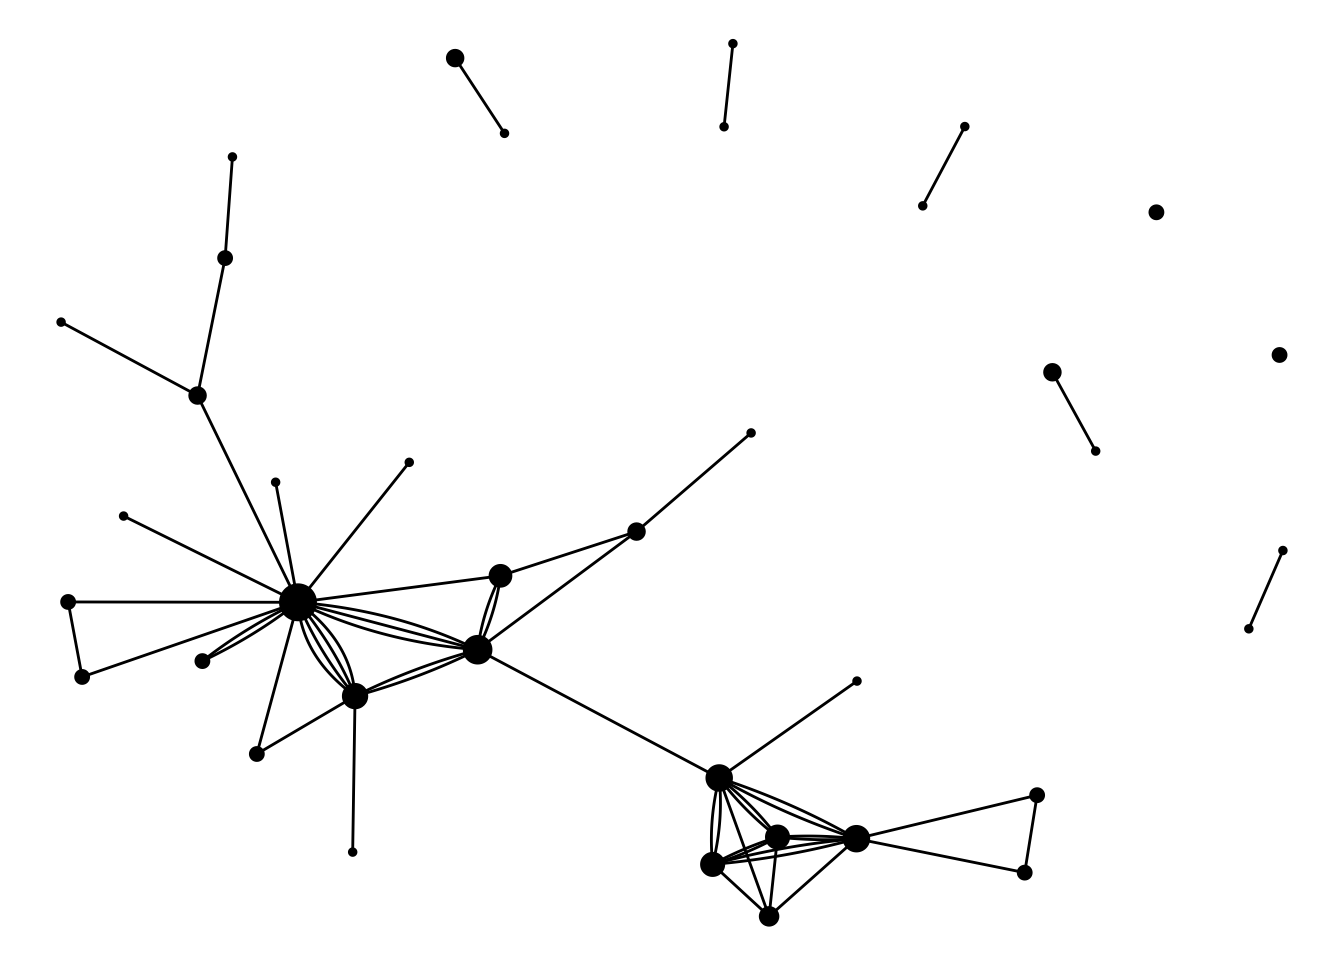
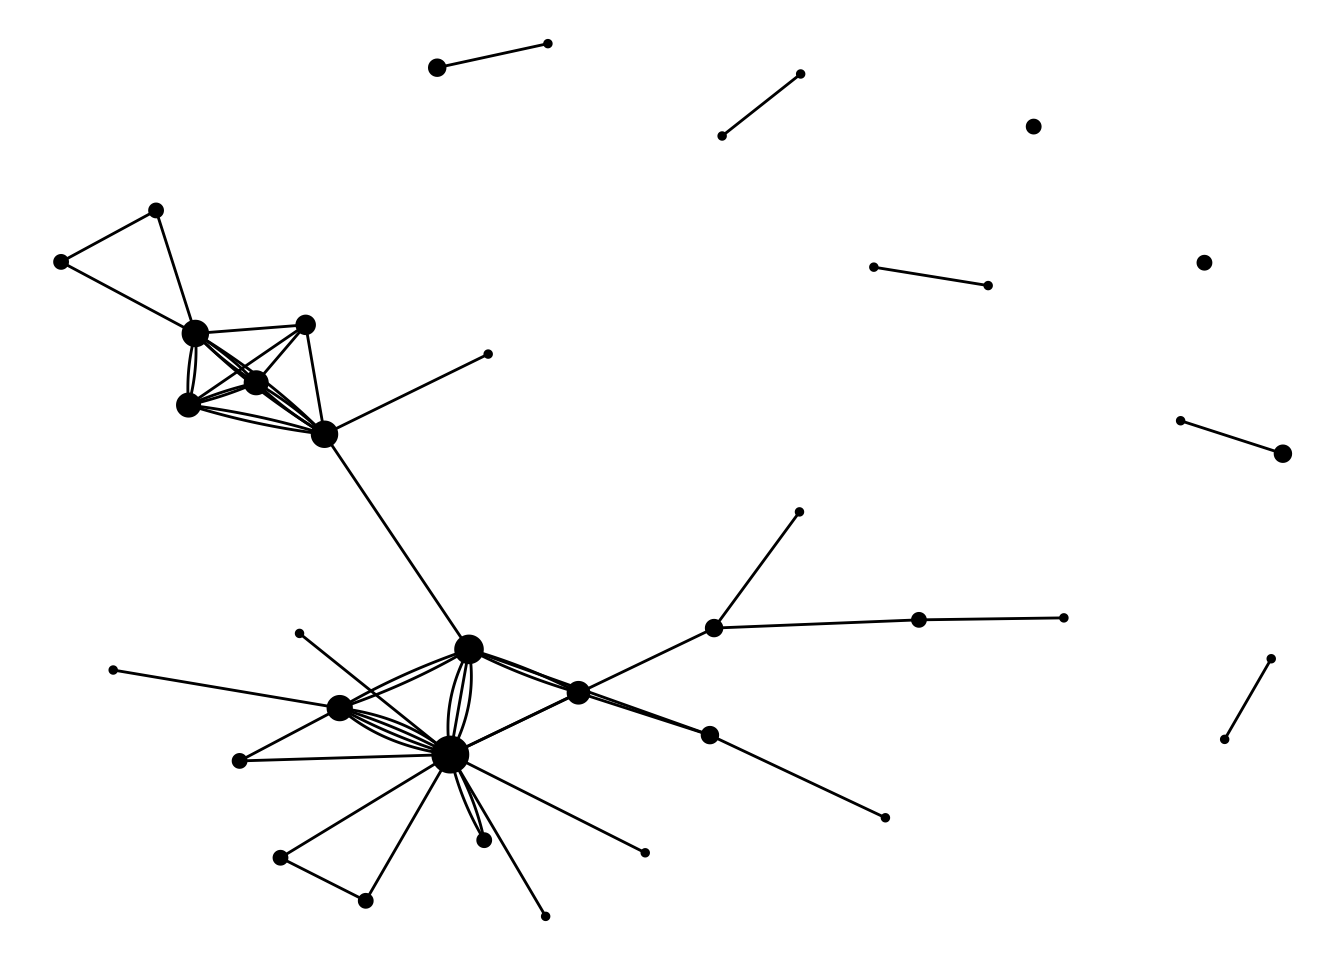
Amend categories actually

diff --git a/content/post/2019-02-14-relayverse.html b/content/post/2019-02-14-relayverse.html
@@ -3,8 +3,8 @@ title: Graphing the Relayverse of podcasts
 author: Matt Dray
 date: '2019-02-14'
 categories:
-  - dataviz
-  - pop culture
+  - code
+  - tutorial
 tags:
   - cowplot
   - ggraph
@@ -12,6 +12,7 @@ tags:
   - networks
   - podcasts
   - purrr
+  - r
   - rvest
   - tidygraph
   - tidyverse
@@ -36,7 +37,7 @@ The Relay FM podcast network, visualised. <a href="https://www.rostrum.blog/outp
 <div id="tldr" class="section level1">
 <h1>tl;dr</h1>
 <p>I made an interactive <a href="https://en.wikipedia.org/wiki/Network_theory">graph network</a> of the podcast host relationships on <a href="https://www.relay.fm">Relay FM</a> using R. <a href="https://www.rostrum.blog/output/relayverse.html">You can interact with it in a separate window</a> and find out below how it was made.</p>
-<p>I refreshed the data and style of the visualisation on 10 Sep 2019.</p>
+<p>I refreshed the data and style of the visualisation on 11 Sep 2019.</p>
 </div>
 <div id="podcast-networks" class="section level1">
 <h1>Podcast networks</h1>
@@ -106,24 +107,24 @@ select(shows, Podcast, Hosts) %&gt;%
 </thead>
 <tbody>
 <tr class="odd">
-<td align="left">Fusion</td>
-<td align="left">Stephen M. Hackett</td>
+<td align="left">The Pen Addict</td>
+<td align="left">Myke HurleyBrad Dowdy</td>
 </tr>
 <tr class="even">
-<td align="left">Disruption</td>
-<td align="left">Georgia DowBrianna WuSteve LubitzMikah Sargent</td>
+<td align="left">Mac Power Users</td>
+<td align="left">David SparksStephen M. Hackett[6]formerly hosted byKatie Floyd</td>
 </tr>
 <tr class="odd">
-<td align="left">The Prompt</td>
-<td align="left">Myke HurleyFederico ViticciStephen M. Hackett</td>
+<td align="left">Playing for Fun</td>
+<td align="left">Myke HurleyTiffany Arment</td>
 </tr>
 <tr class="even">
-<td align="left">Almanac</td>
-<td align="left">Andy Ihnatko</td>
+<td align="left">Remaster</td>
+<td align="left">Federico ViticciMyke HurleyShahid Kamal Ahmad</td>
 </tr>
 <tr class="odd">
-<td align="left">Parallel</td>
-<td align="left">Shelly Brisbin</td>
+<td align="left">Roboism</td>
+<td align="left">Alex CoxSavannah Million</td>
 </tr>
 </tbody>
 </table>
@@ -152,53 +153,53 @@ sample_n(shows_clean, 10) %&gt;% knitr::kable()</code></pre>
 </thead>
 <tbody>
 <tr class="odd">
-<td align="left">Material</td>
-<td align="left">Florence Ion</td>
-<td align="left">Current</td>
+<td align="left">Less Than or Equal</td>
+<td align="left">Aleen Simms</td>
+<td align="left">Retired</td>
 </tr>
 <tr class="even">
-<td align="left">Clockwise</td>
-<td align="left">Mikah Sargent</td>
-<td align="left">Current</td>
-</tr>
-<tr class="odd">
-<td align="left">Rocket</td>
-<td align="left">Brianna Wu</td>
-<td align="left">Current</td>
-</tr>
-<tr class="even">
-<td align="left">Free Agents</td>
-<td align="left">Jason Snell</td>
-<td align="left">Current</td>
-</tr>
-<tr class="odd">
-<td align="left">Reconcilable Differences</td>
-<td align="left">Merlin Mann</td>
-<td align="left">Current</td>
-</tr>
-<tr class="even">
-<td align="left">Mac Power Users</td>
+<td align="left">Ungeniused</td>
 <td align="left">Stephen M. Hackett</td>
 <td align="left">Current</td>
 </tr>
 <tr class="odd">
+<td align="left">Mac Power Users</td>
+<td align="left">David Sparks</td>
+<td align="left">Current</td>
+</tr>
+<tr class="even">
+<td align="left">Make Do</td>
+<td align="left">Tiffany Arment</td>
+<td align="left">Current</td>
+</tr>
+<tr class="odd">
+<td align="left">Thoroughly Considered</td>
+<td align="left">Myke Hurley</td>
+<td align="left">Current</td>
+</tr>
+<tr class="even">
+<td align="left">Top Four</td>
+<td align="left">Tiffany Arment</td>
+<td align="left">Current</td>
+</tr>
+<tr class="odd">
+<td align="left">Query</td>
+<td align="left">Mikah Sargent</td>
+<td align="left">Current</td>
+</tr>
+<tr class="even">
 <td align="left">Top Four</td>
 <td align="left">Marco Arment</td>
 <td align="left">Current</td>
 </tr>
-<tr class="even">
-<td align="left">Isometric</td>
-<td align="left">Georgia Dow</td>
-<td align="left">Retired</td>
-</tr>
 <tr class="odd">
-<td align="left">Liftoff</td>
+<td align="left">Connected</td>
 <td align="left">Stephen M. Hackett</td>
 <td align="left">Current</td>
 </tr>
 <tr class="even">
-<td align="left">Parallel</td>
-<td align="left">Shelly Brisbin</td>
+<td align="left">Rocket</td>
+<td align="left">Christina Warren</td>
 <td align="left">Current</td>
 </tr>
 </tbody>
@@ -326,54 +327,54 @@ sample_n(relay_combos, 10) %&gt;% knitr::kable()  # random sample of 10</code></
 </thead>
 <tbody>
 <tr class="odd">
-<td align="left">Quinn Rose</td>
-<td align="left">Gillian Parker</td>
-<td align="left">Mixed Feelings</td>
+<td align="left">Stephen M. Hackett</td>
+<td align="left">Jason Snell</td>
+<td align="left">Subnet</td>
 </tr>
 <tr class="even">
-<td align="left">Brianna Wu</td>
-<td align="left">Mikah Sargent</td>
-<td align="left">Disruption</td>
+<td align="left">Myke Hurley</td>
+<td align="left">Federico Viticci</td>
+<td align="left">The Prompt</td>
 </tr>
 <tr class="odd">
-<td align="left">Myke Hurley</td>
-<td align="left">Myke Hurley</td>
-<td align="left">Inquisitive</td>
-</tr>
-<tr class="even">
-<td align="left">CGP Grey</td>
-<td align="left">Myke Hurley</td>
-<td align="left">Cortex</td>
-</tr>
-<tr class="odd">
+<td align="left">Georgia Dow</td>
 <td align="left">Maddy Myers</td>
-<td align="left">Mikah Sargent</td>
 <td align="left">Isometric</td>
 </tr>
 <tr class="even">
-<td align="left">Tiffany Arment</td>
-<td align="left">Julia Skott</td>
-<td align="left">Make Do</td>
+<td align="left">Georgia Dow</td>
+<td align="left">Brianna Wu</td>
+<td align="left">Disruption</td>
 </tr>
 <tr class="odd">
-<td align="left">Myke Hurley</td>
-<td align="left">Shahid Kamal Ahmad</td>
-<td align="left">Remaster</td>
-</tr>
-<tr class="even">
-<td align="left">Federico Viticci</td>
-<td align="left">Myke Hurley</td>
-<td align="left">Remaster</td>
-</tr>
-<tr class="odd">
-<td align="left">John Siracusa</td>
-<td align="left">Merlin Mann</td>
-<td align="left">Reconcilable Differences</td>
-</tr>
-<tr class="even">
 <td align="left">Dan Provost</td>
-<td align="left">Tom Gerhardt</td>
+<td align="left">Myke Hurley</td>
 <td align="left">Thoroughly Considered</td>
+</tr>
+<tr class="even">
+<td align="left">Shelly Brisbin</td>
+<td align="left">Shelly Brisbin</td>
+<td align="left">Parallel</td>
+</tr>
+<tr class="odd">
+<td align="left">Brianna Wu</td>
+<td align="left">Steve Lubitz</td>
+<td align="left">Disruption</td>
+</tr>
+<tr class="even">
+<td align="left">Myke Hurley</td>
+<td align="left">Stephen M. Hackett</td>
+<td align="left">Connected</td>
+</tr>
+<tr class="odd">
+<td align="left">Andy Ihnatko</td>
+<td align="left">Andy Ihnatko</td>
+<td align="left">Almanac</td>
+</tr>
+<tr class="even">
+<td align="left">Mikah Sargent</td>
+<td align="left">Steve Lubitz</td>
+<td align="left">Isometric</td>
 </tr>
 </tbody>
 </table>
@@ -506,7 +507,7 @@ edges &lt;- relay_combos %&gt;%
   visInteraction(navigationButtons = TRUE) %&gt;%  # add naviagation buttons
   addFontAwesome()  # makes sure that FontAwesome dependency is in place</code></pre>
 <div id="htmlwidget-1" style="width:672px;height:480px;" class="visNetwork html-widget"></div>
-<script type="application/json" data-for="htmlwidget-1">{"x":{"nodes":{"id":["1","2","3","4","5","6","7","8","9","10","11","12","13","14","15","16","17","18","19","20","21","22","23","24","25","26","27","28","29","30","31","32","33","34","35","36","37","38"],"label":["Aleen Simms","Alex Cox","Andy Ihnatko","Brad Dowdy","Brianna Wu","Casey Liss","CGP Grey","Christina Warren","Dan Moren","Dan Provost","David Smith","David Sparks","Federico Viticci","Florence Ion","Fraser Spiers","Georgia Dow","Gillian Parker","Jason Snell","Jeff Veen","John Siracusa","Julia Skott","K Tempest Bradford","Maddy Myers","Marco Arment","Matt Alexander","Merlin Mann","Mikah Sargent","Myke Hurley","Quinn Rose","Rose Orchard","Savannah Million","Shahid Kamal Ahmad","Shelly Brisbin","Simone de Rochefort","Stephen M. Hackett","Steve Lubitz","Tiffany Arment","Tom Gerhardt"]},"edges":{"V1":["Andy Ihnatko","Myke Hurley","David Sparks","Myke Hurley","Myke Hurley","Federico Viticci","Dan Moren","Myke Hurley","Federico Viticci","Federico Viticci","Myke Hurley","CGP Grey","Georgia Dow","Georgia Dow","Georgia Dow","Brianna Wu","Brianna Wu","Steve Lubitz","Jason Snell","Jason Snell","Stephen M. Hackett","Myke Hurley","Brianna Wu","Brianna Wu","Brianna Wu","Brianna Wu","Georgia Dow","Georgia Dow","Georgia Dow","Maddy Myers","Maddy Myers","Mikah Sargent","Aleen Simms","Jason Snell","David Sparks","Tiffany Arment","Andy Ihnatko","Quinn Rose","K Tempest Bradford","Shelly Brisbin","Myke Hurley","Jeff Veen","Stephen M. Hackett","John Siracusa","Federico Viticci","Federico Viticci","Myke Hurley","Alex Cox","Brianna Wu","Brianna Wu","Christina Warren","Stephen M. Hackett","Myke Hurley","Myke Hurley","Myke Hurley","Federico Viticci","Dan Provost","Dan Provost","Myke Hurley","Marco Arment","David Smith","Stephen M. Hackett","Myke Hurley","Federico Viticci"],"V2":["Andy Ihnatko","Casey Liss","Rose Orchard","Matt Alexander","Matt Alexander","Fraser Spiers","Mikah Sargent","Myke Hurley","Myke Hurley","Stephen M. Hackett","Stephen M. Hackett","Myke Hurley","Brianna Wu","Steve Lubitz","Mikah Sargent","Steve Lubitz","Mikah Sargent","Mikah Sargent","Jason Snell","David Sparks","Stephen M. Hackett","Myke Hurley","Georgia Dow","Maddy Myers","Mikah Sargent","Steve Lubitz","Maddy Myers","Mikah Sargent","Steve Lubitz","Mikah Sargent","Steve Lubitz","Steve Lubitz","Aleen Simms","Stephen M. Hackett","Stephen M. Hackett","Julia Skott","Florence Ion","Gillian Parker","Aleen Simms","Shelly Brisbin","Tiffany Arment","Jeff Veen","Mikah Sargent","Merlin Mann","Myke Hurley","Shahid Kamal Ahmad","Shahid Kamal Ahmad","Savannah Million","Christina Warren","Simone de Rochefort","Simone de Rochefort","Jason Snell","Brad Dowdy","Federico Viticci","Stephen M. Hackett","Stephen M. Hackett","Myke Hurley","Tom Gerhardt","Tom Gerhardt","Tiffany Arment","Marco Arment","Myke Hurley","Jason Snell","Myke Hurley"],"title":["Almanac","Analog(ue)","Automators","Bionic","BONANZA","Canvas","Clockwise","CMD Space","Connected","Connected","Connected","Cortex","Disruption","Disruption","Disruption","Disruption","Disruption","Disruption","Download","Free Agents","Fusion","Inquisitive","Isometric","Isometric","Isometric","Isometric","Isometric","Isometric","Isometric","Isometric","Isometric","Isometric","Less Than or Equal","Liftoff","Mac Power Users","Make Do","Material","Mixed Feelings","Originality","Parallel","Playing for Fun","Presentable","Query","Reconcilable Differences","Remaster","Remaster","Remaster","Roboism","Rocket","Rocket","Rocket","Subnet","The Pen Addict","The Prompt","The Prompt","The Prompt","Thoroughly Considered","Thoroughly Considered","Thoroughly Considered","Top Four","Under the Radar","Ungeniused","Upgrade","Virtual"],"from":["3","28","12","28","28","13","9","28","13","13","28","7","16","16","16","5","5","36","18","18","35","28","5","5","5","5","16","16","16","23","23","27","1","18","12","37","3","29","22","33","28","19","35","20","13","13","28","2","5","5","8","35","28","28","28","13","10","10","28","24","11","35","28","13"],"to":["3","6","30","25","25","15","27","28","28","35","35","28","5","36","27","36","27","27","18","12","35","28","16","23","27","36","23","27","36","27","36","36","1","35","35","21","14","17","1","33","37","19","27","26","28","32","32","31","8","34","34","18","4","13","35","35","28","38","38","37","24","28","18","28"]},"nodesToDataframe":true,"edgesToDataframe":true,"options":{"width":"100%","height":"100%","nodes":{"shape":"icon","font":{"face":"Lekton","size":20},"icon":{"code":"f130","size":75,"color":"#000000"}},"manipulation":{"enabled":false},"edges":{"width":3,"selectionWidth":5,"color":{"color":"#447d9b","highlight":"#c83c3c","opacity":0.5}},"physics":{"solver":"forceAtlas2Based","forceAtlas2Based":{"gravitationalConstant":-50}},"layout":{"randomSeed":1337},"interaction":{"navigationButtons":true}},"groups":null,"width":null,"height":null,"idselection":{"enabled":true,"style":"width: 150px; height: 26px","useLabels":true,"main":"Select by id"},"byselection":{"enabled":false,"style":"width: 150px; height: 26px","multiple":false,"hideColor":"rgba(200,200,200,0.5)"},"main":{"text":"The Relayverse","style":"font-family:Lekton, monospace;font-weight:bold;font-size:30px;text-align:center;"},"submain":{"text":"Click hosts (nodes) to see co-host relationships (edges)","style":"font-family:Lekton, monospace;font-weight:regular;font-size:20px;text-align:center;"},"footer":{"text":"Source: Wikipedia (2019/09/10)","style":"font-family:Lekton, monospace;font-weight:regular;font-size:15px;text-align:right;"},"background":"rgba(0, 0, 0, 0)","highlight":{"enabled":true,"hoverNearest":false,"degree":1,"algorithm":"all","hideColor":"rgba(200,200,200,0.5)","labelOnly":true},"collapse":{"enabled":false,"fit":false,"resetHighlight":true,"clusterOptions":null,"keepCoord":true,"labelSuffix":"(cluster)"},"tooltipStay":300,"tooltipStyle":"position: fixed;visibility:hidden;padding: 5px;white-space: nowrap;font-family: verdana;font-size:14px;font-color:#000000;background-color: #f5f4ed;-moz-border-radius: 3px;-webkit-border-radius: 3px;border-radius: 3px;border: 1px solid #808074;box-shadow: 3px 3px 10px rgba(0, 0, 0, 0.2);","iconsRedraw":true},"evals":[],"jsHooks":[]}</script>
+<script type="application/json" data-for="htmlwidget-1">{"x":{"nodes":{"id":["1","2","3","4","5","6","7","8","9","10","11","12","13","14","15","16","17","18","19","20","21","22","23","24","25","26","27","28","29","30","31","32","33","34","35","36","37","38"],"label":["Aleen Simms","Alex Cox","Andy Ihnatko","Brad Dowdy","Brianna Wu","Casey Liss","CGP Grey","Christina Warren","Dan Moren","Dan Provost","David Smith","David Sparks","Federico Viticci","Florence Ion","Fraser Spiers","Georgia Dow","Gillian Parker","Jason Snell","Jeff Veen","John Siracusa","Julia Skott","K Tempest Bradford","Maddy Myers","Marco Arment","Matt Alexander","Merlin Mann","Mikah Sargent","Myke Hurley","Quinn Rose","Rose Orchard","Savannah Million","Shahid Kamal Ahmad","Shelly Brisbin","Simone de Rochefort","Stephen M. Hackett","Steve Lubitz","Tiffany Arment","Tom Gerhardt"]},"edges":{"V1":["Andy Ihnatko","Myke Hurley","David Sparks","Myke Hurley","Myke Hurley","Federico Viticci","Dan Moren","Myke Hurley","Federico Viticci","Federico Viticci","Myke Hurley","CGP Grey","Georgia Dow","Georgia Dow","Georgia Dow","Brianna Wu","Brianna Wu","Steve Lubitz","Jason Snell","Jason Snell","Stephen M. Hackett","Myke Hurley","Brianna Wu","Brianna Wu","Brianna Wu","Brianna Wu","Georgia Dow","Georgia Dow","Georgia Dow","Maddy Myers","Maddy Myers","Mikah Sargent","Aleen Simms","Jason Snell","David Sparks","Tiffany Arment","Andy Ihnatko","Quinn Rose","K Tempest Bradford","Shelly Brisbin","Myke Hurley","Jeff Veen","Stephen M. Hackett","John Siracusa","Federico Viticci","Federico Viticci","Myke Hurley","Alex Cox","Brianna Wu","Brianna Wu","Christina Warren","Stephen M. Hackett","Myke Hurley","Myke Hurley","Myke Hurley","Federico Viticci","Dan Provost","Dan Provost","Myke Hurley","Marco Arment","David Smith","Stephen M. Hackett","Myke Hurley","Federico Viticci"],"V2":["Andy Ihnatko","Casey Liss","Rose Orchard","Matt Alexander","Matt Alexander","Fraser Spiers","Mikah Sargent","Myke Hurley","Myke Hurley","Stephen M. Hackett","Stephen M. Hackett","Myke Hurley","Brianna Wu","Steve Lubitz","Mikah Sargent","Steve Lubitz","Mikah Sargent","Mikah Sargent","Jason Snell","David Sparks","Stephen M. Hackett","Myke Hurley","Georgia Dow","Maddy Myers","Mikah Sargent","Steve Lubitz","Maddy Myers","Mikah Sargent","Steve Lubitz","Mikah Sargent","Steve Lubitz","Steve Lubitz","Aleen Simms","Stephen M. Hackett","Stephen M. Hackett","Julia Skott","Florence Ion","Gillian Parker","Aleen Simms","Shelly Brisbin","Tiffany Arment","Jeff Veen","Mikah Sargent","Merlin Mann","Myke Hurley","Shahid Kamal Ahmad","Shahid Kamal Ahmad","Savannah Million","Christina Warren","Simone de Rochefort","Simone de Rochefort","Jason Snell","Brad Dowdy","Federico Viticci","Stephen M. Hackett","Stephen M. Hackett","Myke Hurley","Tom Gerhardt","Tom Gerhardt","Tiffany Arment","Marco Arment","Myke Hurley","Jason Snell","Myke Hurley"],"title":["Almanac","Analog(ue)","Automators","Bionic","BONANZA","Canvas","Clockwise","CMD Space","Connected","Connected","Connected","Cortex","Disruption","Disruption","Disruption","Disruption","Disruption","Disruption","Download","Free Agents","Fusion","Inquisitive","Isometric","Isometric","Isometric","Isometric","Isometric","Isometric","Isometric","Isometric","Isometric","Isometric","Less Than or Equal","Liftoff","Mac Power Users","Make Do","Material","Mixed Feelings","Originality","Parallel","Playing for Fun","Presentable","Query","Reconcilable Differences","Remaster","Remaster","Remaster","Roboism","Rocket","Rocket","Rocket","Subnet","The Pen Addict","The Prompt","The Prompt","The Prompt","Thoroughly Considered","Thoroughly Considered","Thoroughly Considered","Top Four","Under the Radar","Ungeniused","Upgrade","Virtual"],"from":["3","28","12","28","28","13","9","28","13","13","28","7","16","16","16","5","5","36","18","18","35","28","5","5","5","5","16","16","16","23","23","27","1","18","12","37","3","29","22","33","28","19","35","20","13","13","28","2","5","5","8","35","28","28","28","13","10","10","28","24","11","35","28","13"],"to":["3","6","30","25","25","15","27","28","28","35","35","28","5","36","27","36","27","27","18","12","35","28","16","23","27","36","23","27","36","27","36","36","1","35","35","21","14","17","1","33","37","19","27","26","28","32","32","31","8","34","34","18","4","13","35","35","28","38","38","37","24","28","18","28"]},"nodesToDataframe":true,"edgesToDataframe":true,"options":{"width":"100%","height":"100%","nodes":{"shape":"icon","font":{"face":"Lekton","size":20},"icon":{"code":"f130","size":75,"color":"#000000"}},"manipulation":{"enabled":false},"edges":{"width":3,"selectionWidth":5,"color":{"color":"#447d9b","highlight":"#c83c3c","opacity":0.5}},"physics":{"solver":"forceAtlas2Based","forceAtlas2Based":{"gravitationalConstant":-50}},"layout":{"randomSeed":1337},"interaction":{"navigationButtons":true}},"groups":null,"width":null,"height":null,"idselection":{"enabled":true,"style":"width: 150px; height: 26px","useLabels":true,"main":"Select by id"},"byselection":{"enabled":false,"style":"width: 150px; height: 26px","multiple":false,"hideColor":"rgba(200,200,200,0.5)"},"main":{"text":"The Relayverse","style":"font-family:Lekton, monospace;font-weight:bold;font-size:30px;text-align:center;"},"submain":{"text":"Click hosts (nodes) to see co-host relationships (edges)","style":"font-family:Lekton, monospace;font-weight:regular;font-size:20px;text-align:center;"},"footer":{"text":"Source: Wikipedia (2019/09/11)","style":"font-family:Lekton, monospace;font-weight:regular;font-size:15px;text-align:right;"},"background":"rgba(0, 0, 0, 0)","highlight":{"enabled":true,"hoverNearest":false,"degree":1,"algorithm":"all","hideColor":"rgba(200,200,200,0.5)","labelOnly":true},"collapse":{"enabled":false,"fit":false,"resetHighlight":true,"clusterOptions":null,"keepCoord":true,"labelSuffix":"(cluster)"},"tooltipStay":300,"tooltipStyle":"position: fixed;visibility:hidden;padding: 5px;white-space: nowrap;font-family: verdana;font-size:14px;font-color:#000000;background-color: #f5f4ed;-moz-border-radius: 3px;-webkit-border-radius: 3px;border-radius: 3px;border: 1px solid #808074;box-shadow: 3px 3px 10px rgba(0, 0, 0, 0.2);","iconsRedraw":true},"evals":[],"jsHooks":[]}</script>
 <hr />
 <p>I recommend you <a href="https://www.rostrum.blog/output/relayverse.html">view the network in its own window</a>.</p>
 <p>Some design points:</p>
@@ -526,7 +527,7 @@ edges &lt;- relay_combos %&gt;%
 <hr />
 <details>
 <p><summary>Session info</summary></p>
-<pre><code>## [1] &quot;Last updated 2019-09-10&quot;</code></pre>
+<pre><code>## [1] &quot;Last updated 2019-09-11&quot;</code></pre>
 <pre><code>## R version 3.5.2 (2018-12-20)
 ## Platform: x86_64-apple-darwin15.6.0 (64-bit)
 ## Running under: macOS High Sierra 10.13.6
